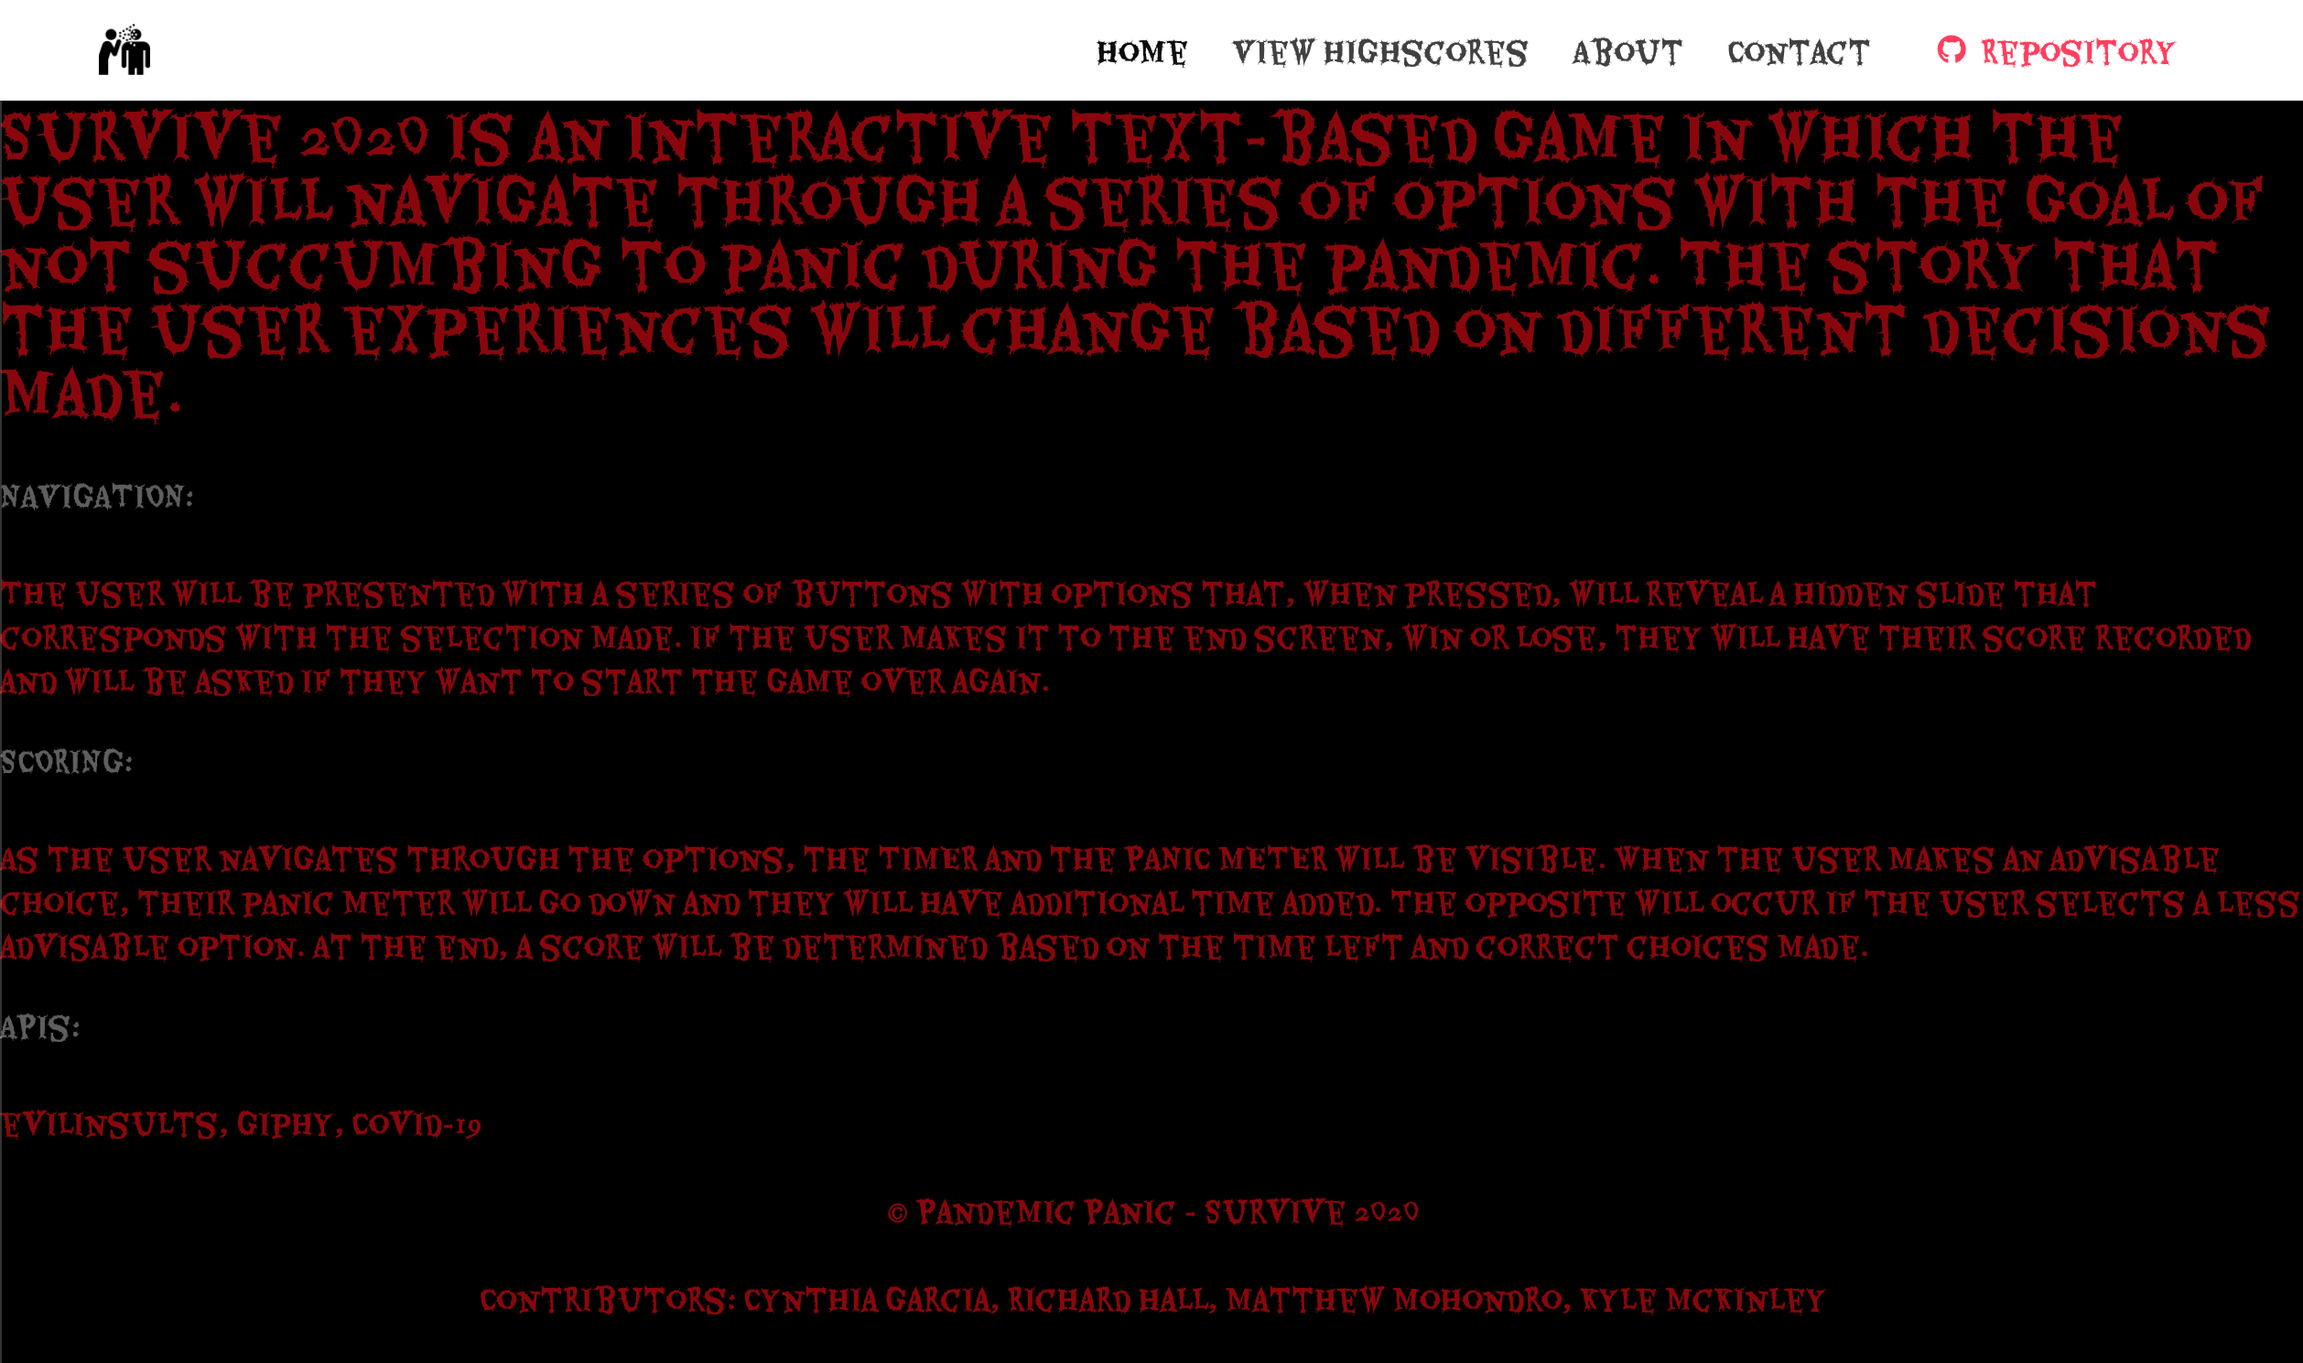
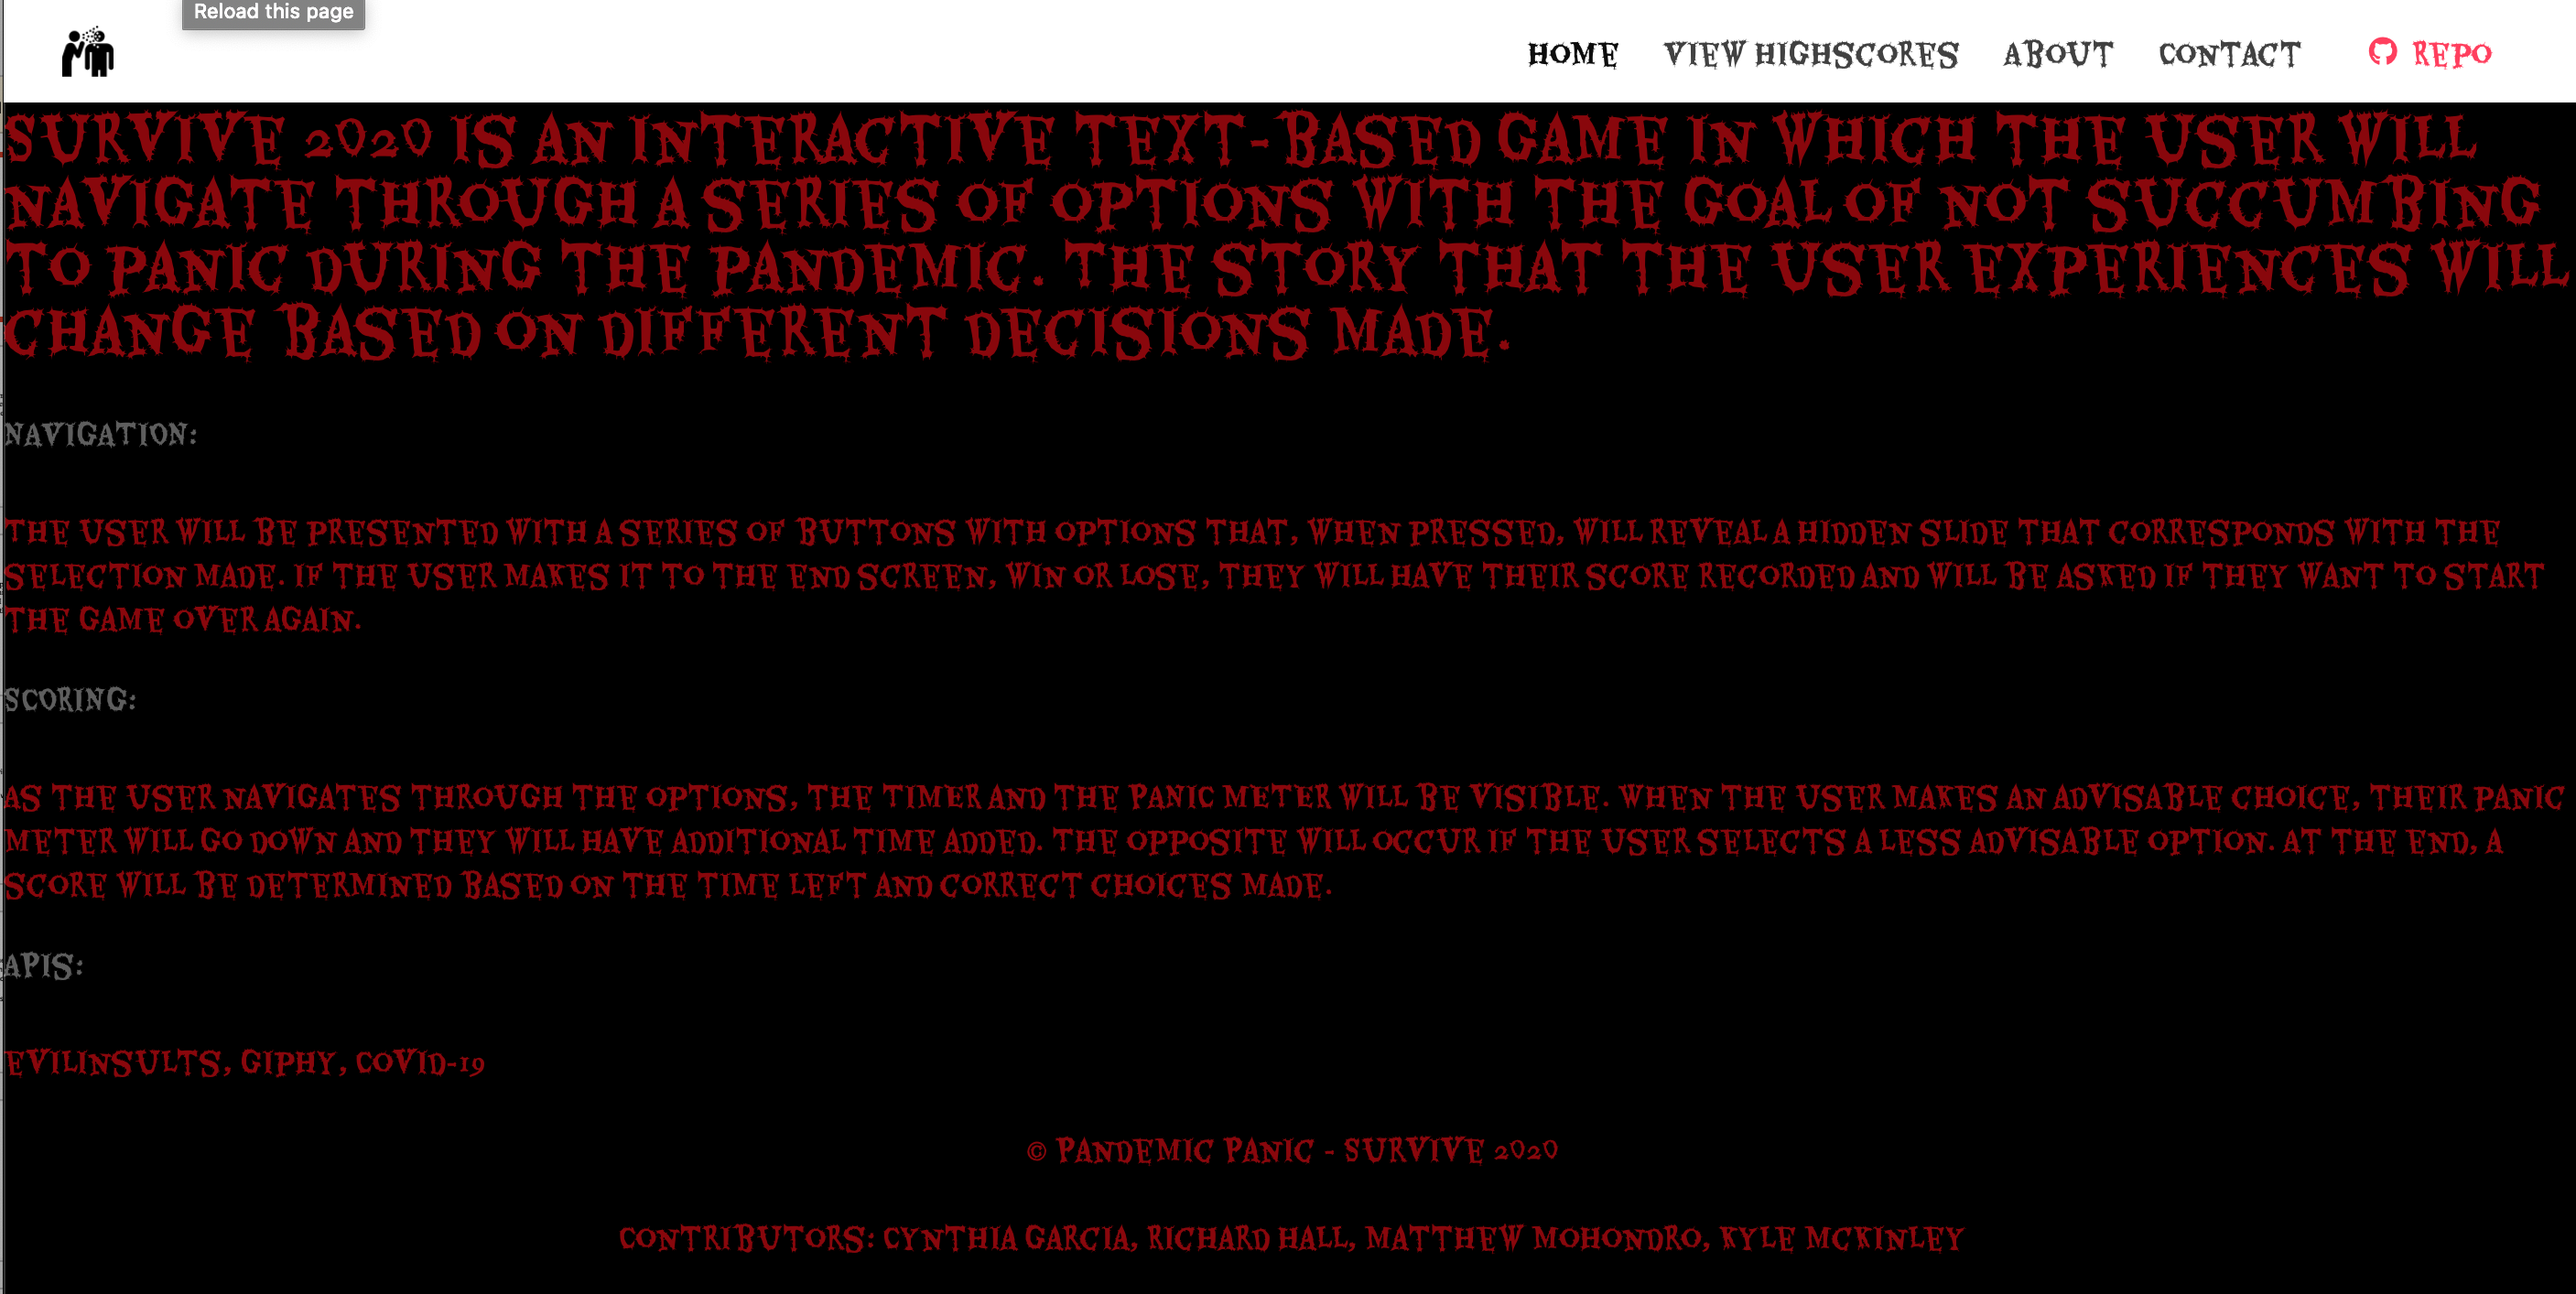
fixed typos

diff --git a/index.html b/index.html
@@ -41,7 +41,7 @@
 
 <body>
 
-    <!-- All "pages" will include the .navbar and .game-progess bar. The actual "screen" section will be dymanically generated. -->
+    <!-- All "pages" will include the .navbar and .game-progress bar. The actual "screen" section will be dynamically generated. -->
     <!-- The navigation bar, should remain always on screen -->
     <section>
         <header class="navbar">
@@ -84,7 +84,7 @@
         </header>
     </section>
     
-    <section class="section" id="game-progess">
+    <section class="section" id="game-progress">
         <div class="container">
             <div class="level" id="progress">
                 <div class="level-left">
@@ -262,7 +262,7 @@
                     </div>
                     <div class="tile is-child box" id="scenario-description">
                         <p class="title has-text-centered">The Bus</p>
-                        <p>You get on the bus, it's mostly empty. It comes to a stop. A large gorup of people are about to get on the bus with you.</p>
+                        <p>You get on the bus, it's mostly empty. It comes to a stop. A large group of people are about to get on the bus with you.</p>
                         <br>
                         <p>What are you going to do?</p>
                     </div>
@@ -411,8 +411,8 @@
                         </article>
                     </div>
                     <div class="tile is-child box" id="scenario-description">
-                        <p class="title has-text-centered">A Slimey Mystery...</p>
-                        <p>You wander cautiously looking for the bathroom.  You see a sign and walk towards it, but as you head there, you see a trail of some viscous liquid in a continous path as though something were draged.  You arrive at the bathroom and reveal a horrid sight...</p>
+                        <p class="title has-text-centered">A Slimy Mystery...</p>
+                        <p>You wander cautiously looking for the bathroom.  You see a sign and walk towards it, but as you head there, you see a trail of some viscous liquid in a continuous path as though something were dragged.  You arrive at the bathroom and reveal a horrid sight...</p>
                     </div>
                 </div>
             </div>
@@ -581,7 +581,7 @@
                     </div>
                     <div class="tile is-child box" id="scenario-description">
                         <p class="title has-text-centered">Checkout</p>
-                        <p>You take your items and go to the checkout line. You uncomfortably stand in line until you finally get to the end. The cashier sneezes three times in a row ending it with a long sniffel. 'Allergies,' she says. Your items have been scanned and are ready to go.</p>
+                        <p>You take your items and go to the checkout line. You uncomfortably stand in line until you finally get to the end. The cashier sneezes three times in a row ending it with a long sniffle. 'Allergies,' she says. Your items have been scanned and are ready to go.</p>
                         <br>
                         <p>What do you do?</p>
                     </div>

diff --git a/scripts.js b/scripts.js
@@ -901,7 +901,7 @@ $(document).ready(function () {
             $("#gifAppear3").prepend(gifDiv3);
         }
     
-        document.getElementById("bathroom-slide-gif").innerHTML = '<div class="tile is-child box" id="scenario-description">                        <p class="title has-text-centered">A Slimey Mystery</p><p>You wander cautiously looking for the bathroom.  You see a sign and walk towards it, but as you head there, you see a trail of some viscous liquid in a continous path as though something were draged.  You arrive at the bathroom and reveal a horrid sight</p>                    </div>'
+        document.getElementById("bathroom-slide-gif").innerHTML = '<div class="tile is-child box" id="scenario-description">                        <p class="title has-text-centered">A Slimy Mystery</p><p>You wander cautiously looking for the bathroom.  You see a sign and walk towards it, but as you head there, you see a trail of some viscous liquid in a continuous path as though something were dragged.  You arrive at the bathroom and reveal a horrid sight</p>                    </div>'
         });
     });
 

diff --git a/about.html b/about.html
@@ -50,7 +50,7 @@
                                 <span class="icon">
                                     <i class="fab fa-github"></i>
                                 </span>
-                                <span>Repository</span>
+                                <span>Repo</span>
                             </a>
                         </span>
                     </div>

diff --git a/contact.html b/contact.html
@@ -53,7 +53,7 @@ type="image">
                             <span class="icon">
                                 <i class="fab fa-github"></i>
                             </span>
-                            <span>Repository</span>
+                            <span>Repo</span>
                         </a>
                     </span>
                 </div>
